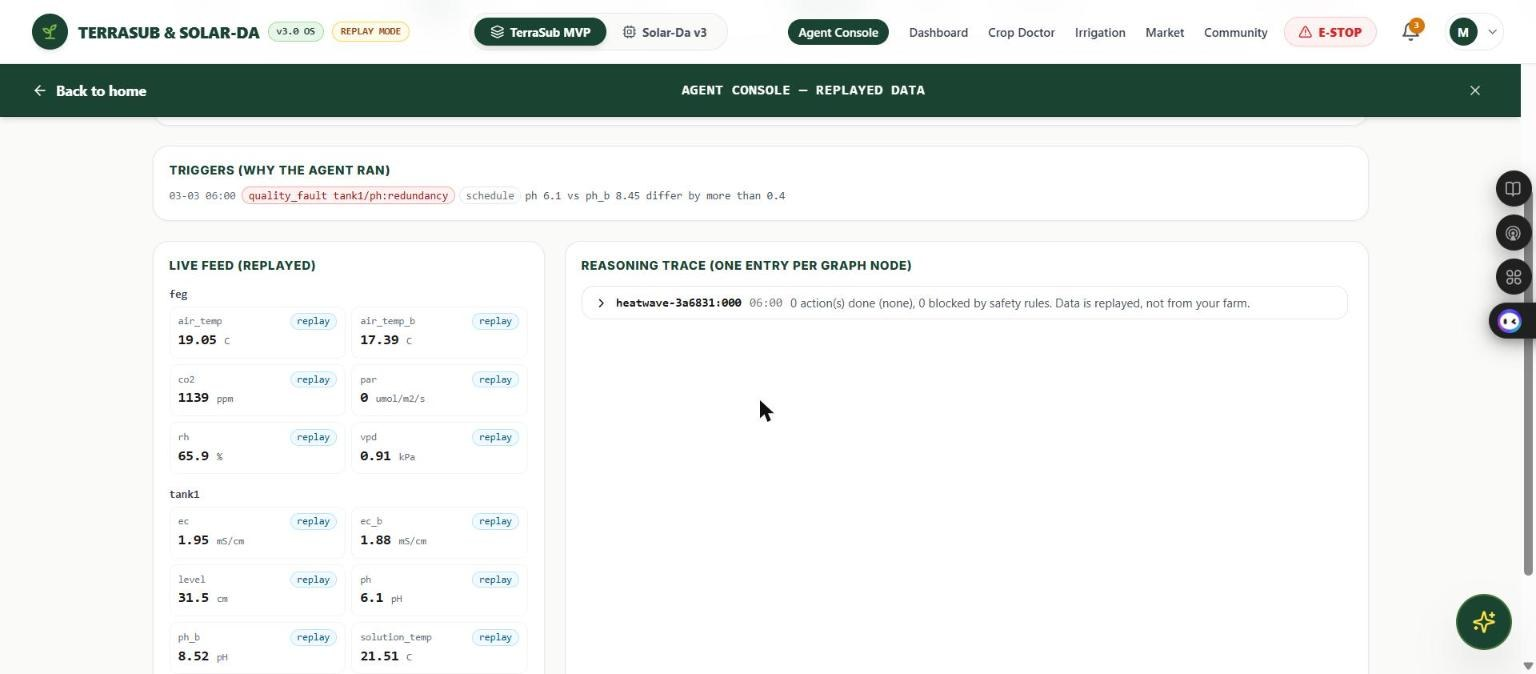
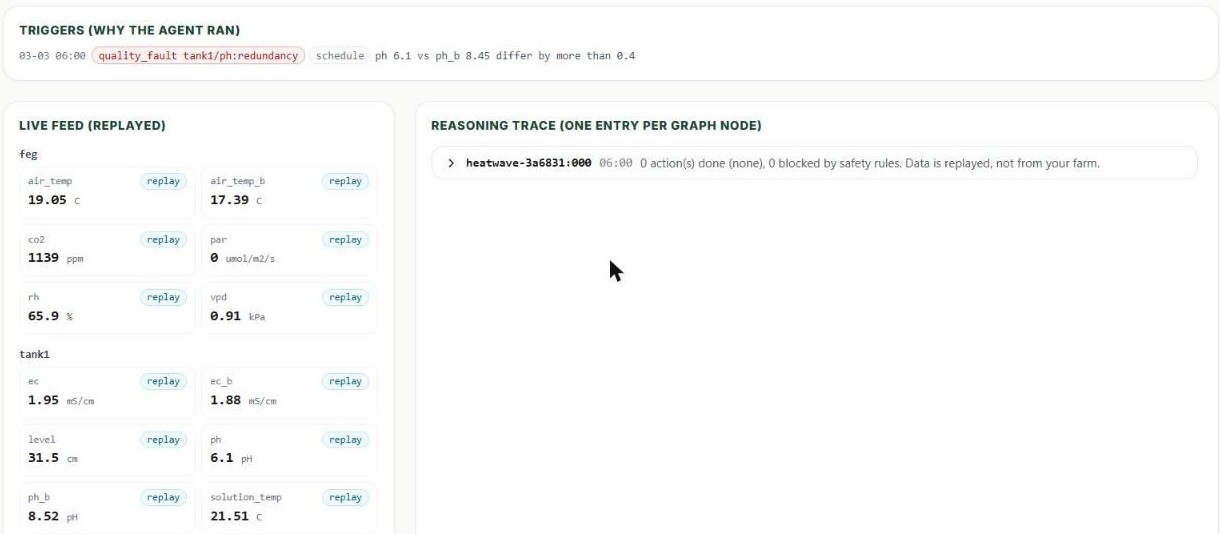
Deck: build script (docs/deck), cropped console screenshot

diff --git a/docs/deck/build_deck.js b/docs/deck/build_deck.js
@@ -1,0 +1,244 @@
+// Builds the Solarda hackathon deck (12 slides, 16:9). Needs `npm i pptxgenjs` (kept out of the repo's dependencies).
+//   node docs/deck/build_deck.js "C:/Users/<you>/Downloads/Solarda_Hackathon_Deck.pptx"
+// Images come from docs/img (real screenshots of the running app and the two diagrams).
+const pptxgen = require('pptxgenjs');
+const path = require('path');
+
+const OUT = process.argv[2] || 'Solarda_Hackathon_Deck.pptx';
+const IMG = (f) => path.resolve(__dirname, '../img', f);
+const C = { g9: '0B2E22', g8: '12452F', g7: '195C3E', lime: 'B7F34A', cream: 'F6F3E8', ink: '0D1B14', mut: '5B6B62', soft: 'C5DCCF', amber: 'F2A93B', red: 'E0645F', white: 'FFFFFF' };
+const HEAD = 'Cambria';
+const BODY = 'Calibri';
+
+const pres = new pptxgen();
+pres.layout = 'LAYOUT_16x9'; // 10 x 5.625 in
+pres.title = 'Solarda: Agentic Smart Agriculture';
+pres.author = 'Team Solarda';
+
+const shadow = () => ({ type: 'outer', color: '000000', blur: 8, offset: 2, angle: 90, opacity: 0.35 });
+
+function base(slide, title, kicker) {
+  slide.background = { color: C.g9 };
+  slide.addShape(pres.ShapeType.ellipse, { x: 7.6, y: -2.2, w: 5.2, h: 5.2, fill: { color: C.g7, transparency: 70 }, line: { color: C.g7, transparency: 100 } });
+  if (kicker) slide.addText(kicker.toUpperCase(), { x: 0.5, y: 0.28, w: 6, h: 0.25, fontFace: BODY, fontSize: 11, bold: true, color: C.lime, charSpacing: 4, margin: 0, isTextBox: true });
+  slide.addText(title, { x: 0.5, y: 0.5, w: 9, h: 0.6, fontFace: HEAD, fontSize: 32, bold: true, color: C.cream, margin: 0, isTextBox: true });
+}
+function footer(slide, n) {
+  slide.addText('Solarda · Agentic AI Hackathon 2026', { x: 0.5, y: 5.3, w: 5, h: 0.22, fontFace: BODY, fontSize: 10, color: C.soft, margin: 0, isTextBox: true });
+  slide.addText(String(n), { x: 9.0, y: 5.3, w: 0.5, h: 0.22, fontFace: BODY, fontSize: 10, color: C.soft, align: 'right', margin: 0, isTextBox: true });
+}
+function card(slide, x, y, w, h, fill, name) {
+  slide.addShape(pres.ShapeType.roundRect, { x, y, w, h, rectRadius: 0.12, fill: { color: fill }, line: { color: fill, transparency: 100 }, shadow: shadow(), objectName: name || 'card' });
+}
+function pic(slide, file, x, y, w, h, name) {
+  slide.addShape(pres.ShapeType.roundRect, { x: x - 0.05, y: y - 0.05, w: w + 0.1, h: h + 0.1, rectRadius: 0.08, fill: { color: C.g8 }, line: { color: C.lime, width: 1.25 }, shadow: shadow(), objectName: (name || 'frame') + ' frame' });
+  slide.addImage({ path: IMG(file), x, y, w, h, objectName: name || file, altText: name || file });
+}
+function badge(slide, n, x, y, fill, color) {
+  slide.addShape(pres.ShapeType.ellipse, { x, y, w: 0.42, h: 0.42, fill: { color: fill || C.lime }, line: { color: fill || C.lime, transparency: 100 }, objectName: 'badge ' + n });
+  slide.addText(String(n), { x, y, w: 0.42, h: 0.42, align: 'center', valign: 'middle', fontFace: BODY, fontSize: 14, bold: true, color: color || C.g9, margin: 0, isTextBox: true });
+}
+function bullets(slide, items, x, y, w, h, size, color) {
+  slide.addText(items.map((t, i) => ({ text: t, options: { bullet: { indent: 14 }, breakLine: i < items.length - 1, paraSpaceAfter: 7 } })),
+    { x, y, w, h, fontFace: BODY, fontSize: size || 14, color: color || C.cream, valign: 'top', margin: 0, isTextBox: true });
+}
+
+// 1 · Title
+{
+  const s = pres.addSlide();
+  s.background = { color: C.g9 };
+  s.addShape(pres.ShapeType.ellipse, { x: 5.2, y: -1.8, w: 7, h: 7, fill: { color: C.g7, transparency: 65 }, line: { color: C.g7, transparency: 100 } });
+  s.addShape(pres.ShapeType.roundRect, { x: 0.6, y: 0.6, w: 3.2, h: 0.36, rectRadius: 0.18, fill: { color: C.g8 }, line: { color: C.lime, width: 1 } });
+  s.addText('AGENTIC AI HACKATHON 2026', { x: 0.6, y: 0.6, w: 3.2, h: 0.36, align: 'center', valign: 'middle', fontFace: BODY, fontSize: 11, bold: true, color: C.lime, charSpacing: 3, margin: 0, isTextBox: true });
+  s.addText('Solarda', { x: 0.6, y: 1.25, w: 4.6, h: 1.0, fontFace: HEAD, fontSize: 60, bold: true, color: C.lime, margin: 0, isTextBox: true });
+  s.addText('Agentic smart agriculture', { x: 0.6, y: 2.25, w: 4.6, h: 0.5, fontFace: HEAD, fontSize: 24, color: C.cream, margin: 0, isTextBox: true });
+  s.addText('Safety-gated AI farm agents, a six-language farm assistant, plant-disease vision and learned sensor forecasting.', { x: 0.6, y: 2.95, w: 4.3, h: 0.9, fontFace: BODY, fontSize: 14, color: C.soft, margin: 0, isTextBox: true });
+  s.addText('The LLM only proposes. The TypeScript safety engine decides.', { x: 0.6, y: 4.2, w: 4.3, h: 0.7, fontFace: HEAD, fontSize: 15, italic: true, color: C.amber, margin: 0, isTextBox: true });
+  pic(s, 'app-home.jpg', 5.45, 0.85, 4.1, 1.6, 'Solarda home screen');
+  pic(s, 'app-agent-console.jpg', 5.45, 2.8, 4.1, 1.8, 'Agent Console');
+  s.addText('Real screenshots of the running app', { x: 5.45, y: 4.78, w: 4.1, h: 0.25, fontFace: BODY, fontSize: 10, color: C.soft, margin: 0, isTextBox: true });
+  s.addNotes('Solarda is an agentic smart-agriculture system. The core rule: the language model only proposes; a deterministic TypeScript safety engine decides; a human approves anything risky.');
+}
+
+// 2 · Problem
+{
+  const s = pres.addSlide(); base(s, 'Risky decisions, too little data', 'The problem');
+  const items = [
+    ['1', 'Little data, no expert', 'Smallholder farms decide irrigation, nutrients and disease control with almost no support nearby.'],
+    ['2', 'One wrong dose costs a crop', 'Over-dosing, missed irrigation or the wrong spray can destroy a whole harvest.'],
+    ['3', 'LLMs are fluent, not safe', 'A language model can be confidently wrong, so it must never hold the controls.'],
+    ['4', 'Many languages, no trust', 'Farmers speak six languages and mix them; most AI demos show numbers with no source.'],
+  ];
+  items.forEach(([n, h, t], i) => {
+    const x = 0.5 + (i % 2) * 4.55, y = 1.35 + Math.floor(i / 2) * 1.85;
+    card(s, x, y, 4.35, 1.65, C.cream, 'problem card ' + n);
+    badge(s, n, x + 0.2, y + 0.2);
+    s.addText(h, { x: x + 0.75, y: y + 0.18, w: 3.4, h: 0.45, fontFace: HEAD, fontSize: 16, bold: true, color: C.ink, margin: 0, valign: 'middle', isTextBox: true });
+    s.addText(t, { x: x + 0.25, y: y + 0.75, w: 3.9, h: 0.8, fontFace: BODY, fontSize: 13, color: C.mut, margin: 0, valign: 'top', isTextBox: true });
+  });
+  footer(s, 2);
+}
+
+// 3 · Idea
+{
+  const s = pres.addSlide(); base(s, 'Propose, decide, approve', 'Our idea');
+  const cols = [
+    ['LLM proposes', 'Specialists (irrigation, fertigation, climate, disease) return actions with rationale, evidence and confidence. They cannot act.', C.amber, C.cream],
+    ['Engine decides', '13 interlocks plus agent rules return ALLOW, NEEDS_HUMAN or VETO. The model cannot override the TypeScript engine.', C.lime, C.cream],
+    ['Human approves', 'Pesticide doses and spray rates always escalate to an expert. Risky actions wait in an approvals inbox.', C.red, C.cream],
+  ];
+  cols.forEach(([h, t, accent, fill], i) => {
+    const x = 0.5 + i * 3.05;
+    card(s, x, 1.4, 2.85, 2.6, fill, 'idea card ' + (i + 1));
+    s.addShape(pres.ShapeType.ellipse, { x: x + 0.25, y: 1.62, w: 0.5, h: 0.5, fill: { color: accent }, line: { color: accent, transparency: 100 } });
+    s.addText(String(i + 1), { x: x + 0.25, y: 1.62, w: 0.5, h: 0.5, align: 'center', valign: 'middle', fontFace: BODY, fontSize: 16, bold: true, color: C.g9, margin: 0, isTextBox: true });
+    s.addText(h, { x: x + 0.25, y: 2.25, w: 2.4, h: 0.4, fontFace: HEAD, fontSize: 18, bold: true, color: C.ink, margin: 0, isTextBox: true });
+    s.addText(t, { x: x + 0.25, y: 2.7, w: 2.4, h: 1.2, fontFace: BODY, fontSize: 12.5, color: C.mut, margin: 0, valign: 'top', isTextBox: true });
+  });
+  card(s, 0.5, 4.25, 9.0, 0.8, C.g8, 'data honesty banner');
+  s.addText([{ text: 'Data honesty  ', options: { bold: true, color: C.lime } }, { text: 'Every reading shows its source tag (replay, simulated, twin). Replayed data is never presented as live.', options: { color: C.cream } }],
+    { x: 0.75, y: 4.25, w: 8.5, h: 0.8, fontFace: BODY, fontSize: 14, valign: 'middle', margin: 0, isTextBox: true });
+  footer(s, 3);
+}
+
+// 4 · Capabilities
+{
+  const s = pres.addSlide(); base(s, 'What Solarda does', 'Capabilities');
+  const caps = [
+    ['Farm-shift agent', 'Event-triggered LangGraph runs, ingest to audit'],
+    ['Irrigation twin', 'AquaCrop compares hold, irrigate now, irrigate tonight'],
+    ['Sensor models', '30 min and 2 h forecasts with bands, anomaly detector'],
+    ['Disease vision', 'Calibrated model that abstains and asks for a retake'],
+    ['Farm assistant', 'Gemini chat in 6 languages with voice and tools'],
+    ['Safety engine', 'Interlocks, E-STOP, idempotent dispatch, audit log'],
+    ['Market outlook', '4-week onion price outlook from Agmarknet data'],
+    ['Harvest passport', 'SHA-256 hash-chained, tamper-evident record'],
+    ['Alerts', 'SMS outbox (simulated) plus optional Telegram delivery'],
+  ];
+  caps.forEach(([h, t], i) => {
+    const x = 0.5 + (i % 3) * 3.05, y = 1.3 + Math.floor(i / 3) * 1.3;
+    card(s, x, y, 2.85, 1.15, C.cream, 'capability ' + (i + 1));
+    s.addText(h, { x: x + 0.2, y: y + 0.12, w: 2.5, h: 0.35, fontFace: HEAD, fontSize: 15, bold: true, color: C.g8, margin: 0, isTextBox: true });
+    s.addText(t, { x: x + 0.2, y: y + 0.5, w: 2.5, h: 0.58, fontFace: BODY, fontSize: 11.5, color: C.mut, margin: 0, valign: 'top', isTextBox: true });
+  });
+  footer(s, 4);
+}
+
+// 5 · Architecture
+{
+  const s = pres.addSlide(); s.background = { color: C.g9 };
+  s.addImage({ path: IMG('architecture.png'), x: 0, y: 0, w: 10, h: 5.625, objectName: 'Architecture diagram', altText: 'Solarda system architecture: presentation, entry proxy, four services, data and external sources' });
+  s.addNotes('Five processes behind one origin: nginx fronts the TypeScript safety engine and API, the LangGraph agent runtime, the AquaCrop twin and the ONNX vision service.');
+}
+
+// 6 · Workflow
+{
+  const s = pres.addSlide(); s.background = { color: C.g9 };
+  s.addImage({ path: IMG('workflow.png'), x: 0, y: 0, w: 10, h: 5.625, objectName: 'Workflow diagram', altText: 'Eleven-step farm shift workflow from trigger to audit' });
+  s.addNotes('Event-driven, never a blind timer. The LLM proposes in step 4; the TypeScript engine decides in step 6; humans approve in step 7; every step is audited and replayable.');
+}
+
+// 7 · Safety
+{
+  const s = pres.addSlide(); base(s, 'Safety by design', 'Trust');
+  bullets(s, [
+    '13 original interlocks plus agent rules: max dose per hour, tank limits, sensor trust, autonomy tier',
+    'L1 propose: everything waits for a human. L2 act: only inside a safe envelope',
+    'Idempotency-Key on every action, so a retry can never double-dose',
+    'Append-only SHA-256 hash-chained audit log; replay any run from a checkpoint',
+    'E-STOP freezes dispatch instantly',
+  ], 0.5, 1.4, 5.1, 3.6, 14);
+  card(s, 5.95, 1.4, 3.55, 1.7, C.cream, 'veto card');
+  s.addText('Example veto', { x: 6.15, y: 1.52, w: 3.2, h: 0.3, fontFace: BODY, fontSize: 11, bold: true, color: C.mut, charSpacing: 2, margin: 0, isTextBox: true });
+  s.addText('MAX_DOSE_PER_HOUR', { x: 6.15, y: 1.85, w: 3.2, h: 0.4, fontFace: 'Courier New', fontSize: 15, bold: true, color: C.red, margin: 0, isTextBox: true });
+  s.addText('The agent keeps proposing pH-down; the gate refuses and nothing is dispatched.', { x: 6.15, y: 2.3, w: 3.2, h: 0.7, fontFace: BODY, fontSize: 12, color: C.ink, margin: 0, valign: 'top', isTextBox: true });
+  card(s, 5.95, 3.3, 3.55, 1.7, C.lime, 'envelope card');
+  s.addText('Honest limit', { x: 6.15, y: 3.42, w: 3.2, h: 0.3, fontFace: BODY, fontSize: 11, bold: true, color: C.g8, charSpacing: 2, margin: 0, isTextBox: true });
+  s.addText('Envelope numbers are placeholders until an agronomist verifies them.', { x: 6.15, y: 3.8, w: 3.2, h: 1.1, fontFace: HEAD, fontSize: 14, bold: true, color: C.g9, margin: 0, valign: 'top', isTextBox: true });
+  footer(s, 7);
+}
+
+// 8 · Live demo
+{
+  const s = pres.addSlide(); base(s, 'Live demo: the Agent Console', 'Real screenshots');
+  pic(s, 'app-agent-console.jpg', 0.6, 1.35, 4.2, 1.84, 'Live feed and trigger');
+  pic(s, 'app-disease-trace.jpg', 5.2, 1.35, 4.2, 1.84, 'Reasoning trace to approval');
+  s.addText('Live feed: every reading is tagged replay. When two pH probes disagree by more than 0.4, a quality-fault run starts.', { x: 0.6, y: 3.45, w: 4.2, h: 1.2, fontFace: BODY, fontSize: 13, color: C.cream, margin: 0, valign: 'top', isTextBox: true });
+  s.addText('Reasoning trace: ingest, assess, specialists, arbiter, safety gate. The treatment is allowed but needs a human in the approvals inbox.', { x: 5.2, y: 3.45, w: 4.2, h: 1.2, fontFace: BODY, fontSize: 13, color: C.cream, margin: 0, valign: 'top', isTextBox: true });
+  footer(s, 8);
+}
+
+// 9 · Farm assistant
+{
+  const s = pres.addSlide(); base(s, 'Farm assistant in six languages', 'Voice and chat');
+  pic(s, 'app-farm-assistant.jpg', 0.55, 1.4, 5.0, 2.19, 'Farm assistant');
+  s.addText('Tamil, English, Hindi, Telugu, Kannada, Malayalam, or mixed (Tanglish, Hinglish).', { x: 0.55, y: 3.85, w: 5.0, h: 0.8, fontFace: BODY, fontSize: 13, color: C.soft, margin: 0, valign: 'top', isTextBox: true });
+  bullets(s, [
+    'Streaming Gemini answers with voice input and read-out',
+    'Read-only tools: farm status, alerts, forecasts, approved sources, live weather, mandi prices',
+    'Parallel risk gate: pesticide doses and spray rates get a fixed escalation to a human expert',
+    'Replayed data is always labelled, never passed off as live',
+  ], 6.0, 1.4, 3.5, 2.7, 13);
+  card(s, 6.0, 4.2, 3.5, 0.85, C.lime, 'fixed escalation callout');
+  s.addText('Escalation wording is fixed, not generated by the model.', { x: 6.2, y: 4.2, w: 3.1, h: 0.85, fontFace: HEAD, fontSize: 13, bold: true, color: C.g9, valign: 'middle', margin: 0, isTextBox: true });
+  footer(s, 9);
+}
+
+// 10 · Results
+{
+  const s = pres.addSlide(); base(s, 'Results (replay and simulation)', 'Evidence');
+  const stats = [
+    ['-32%', 'water vs an ET controller, Chennai 2021 and 2023, at about equal yield'],
+    ['98.2%', 'lab accuracy of the disease model (PlantVillage)'],
+    ['61%', 'on field photos; 87% right when it answers, abstains on 60%'],
+    ['0 min', 'agent reaction time vs 5 to 10 min for a fixed tick'],
+  ];
+  stats.forEach(([n, t], i) => {
+    const x = 0.5 + i * 2.28;
+    card(s, x, 1.4, 2.1, 2.5, C.g8, 'stat ' + (i + 1));
+    s.addText(n, { x: x + 0.1, y: 1.6, w: 1.9, h: 0.9, fontFace: HEAD, fontSize: 38, bold: true, color: C.lime, align: 'center', valign: 'middle', margin: 0, isTextBox: true });
+    s.addText(t, { x: x + 0.15, y: 2.6, w: 1.8, h: 1.2, fontFace: BODY, fontSize: 12, color: C.cream, align: 'center', valign: 'top', margin: 0, isTextBox: true });
+  });
+  s.addText([{ text: 'Kept on purpose:  ', options: { bold: true, color: C.amber } }, { text: 'the pH forecaster, dry-season rain forecast and harvest-date forecast did not beat the baseline. We show them, not hide them.', options: { color: C.cream } }],
+    { x: 0.5, y: 4.2, w: 9.0, h: 0.8, fontFace: BODY, fontSize: 14, valign: 'middle', margin: 0, isTextBox: true });
+  footer(s, 10);
+}
+
+// 11 · Evidence
+{
+  const s = pres.addSlide(); base(s, 'Evidence, not claims', 'Benchmark');
+  pic(s, 'app-benchmark-irrigation.jpg', 0.55, 1.4, 5.2, 2.28, 'Irrigation benchmark');
+  s.addText('Water and yield against fixed and ET schedules, with the no-gain list shown on screen.', { x: 0.55, y: 3.95, w: 5.2, h: 0.8, fontFace: BODY, fontSize: 13, color: C.soft, margin: 0, valign: 'top', isTextBox: true });
+  bullets(s, [
+    'Every number links to a source file and a re-run command',
+    'Caveat shown in the app: the twin is both advisor and judge',
+    'All models run on ONNX Runtime',
+    'Whole stack fits in about 450 MB in one Docker container',
+  ], 6.1, 1.4, 3.4, 2.7, 13);
+  card(s, 6.1, 4.2, 3.4, 0.85, C.lime, 'honest by design callout');
+  s.addText('Where the agent does no better is listed beside where it wins.', { x: 6.3, y: 4.2, w: 3.0, h: 0.85, fontFace: HEAD, fontSize: 13, bold: true, color: C.g9, valign: 'middle', margin: 0, isTextBox: true });
+  footer(s, 11);
+}
+
+// 12 · Close
+{
+  const s = pres.addSlide(); s.background = { color: C.g9 };
+  s.addShape(pres.ShapeType.ellipse, { x: -2.2, y: 2.4, w: 7, h: 7, fill: { color: C.g7, transparency: 65 }, line: { color: C.g7, transparency: 100 } });
+  s.addText('Run it, then take it further', { x: 0.6, y: 0.5, w: 8.8, h: 0.7, fontFace: HEAD, fontSize: 32, bold: true, color: C.cream, margin: 0, isTextBox: true });
+  card(s, 0.6, 1.5, 4.3, 3.2, C.cream, 'run card');
+  s.addText('Run the full demo', { x: 0.85, y: 1.65, w: 3.8, h: 0.4, fontFace: HEAD, fontSize: 17, bold: true, color: C.g8, margin: 0, isTextBox: true });
+  s.addText('powershell -File scripts/demo.ps1', { x: 0.85, y: 2.15, w: 3.8, h: 0.4, fontFace: 'Courier New', fontSize: 12, bold: true, color: C.ink, margin: 0, isTextBox: true });
+  s.addText('One command with Docker; opens http://localhost:3000. Works offline except chat, live weather and mandi prices.', { x: 0.85, y: 2.65, w: 3.8, h: 0.95, fontFace: BODY, fontSize: 12.5, color: C.mut, margin: 0, valign: 'top', isTextBox: true });
+  s.addText('github.com/loktrishal-05/Solar-Da', { x: 0.85, y: 3.75, w: 3.8, h: 0.3, fontFace: BODY, fontSize: 13, bold: true, color: C.g8, margin: 0, isTextBox: true, hyperlink: { url: 'https://github.com/loktrishal-05/Solar-Da' } });
+  s.addText('solarda.vercel.app (UI preview)', { x: 0.85, y: 4.1, w: 3.8, h: 0.3, fontFace: BODY, fontSize: 13, bold: true, color: C.g8, margin: 0, isTextBox: true, hyperlink: { url: 'https://solarda.vercel.app' } });
+  s.addText('Next', { x: 5.3, y: 1.5, w: 4.1, h: 0.4, fontFace: HEAD, fontSize: 17, bold: true, color: C.lime, margin: 0, isTextBox: true });
+  bullets(s, [
+    'Real sensor adapters',
+    'Agronomist-verified safety envelope',
+    'Paid SMS gateway',
+    'Field trials and better field-photo accuracy',
+  ], 5.3, 2.0, 4.1, 2.0, 14);
+  s.addText('Thank you · Questions', { x: 5.3, y: 4.2, w: 4.1, h: 0.5, fontFace: HEAD, fontSize: 22, italic: true, color: C.amber, margin: 0, isTextBox: true });
+}
+
+pres.writeFile({ fileName: OUT }).then((f) => console.log('wrote', f));
